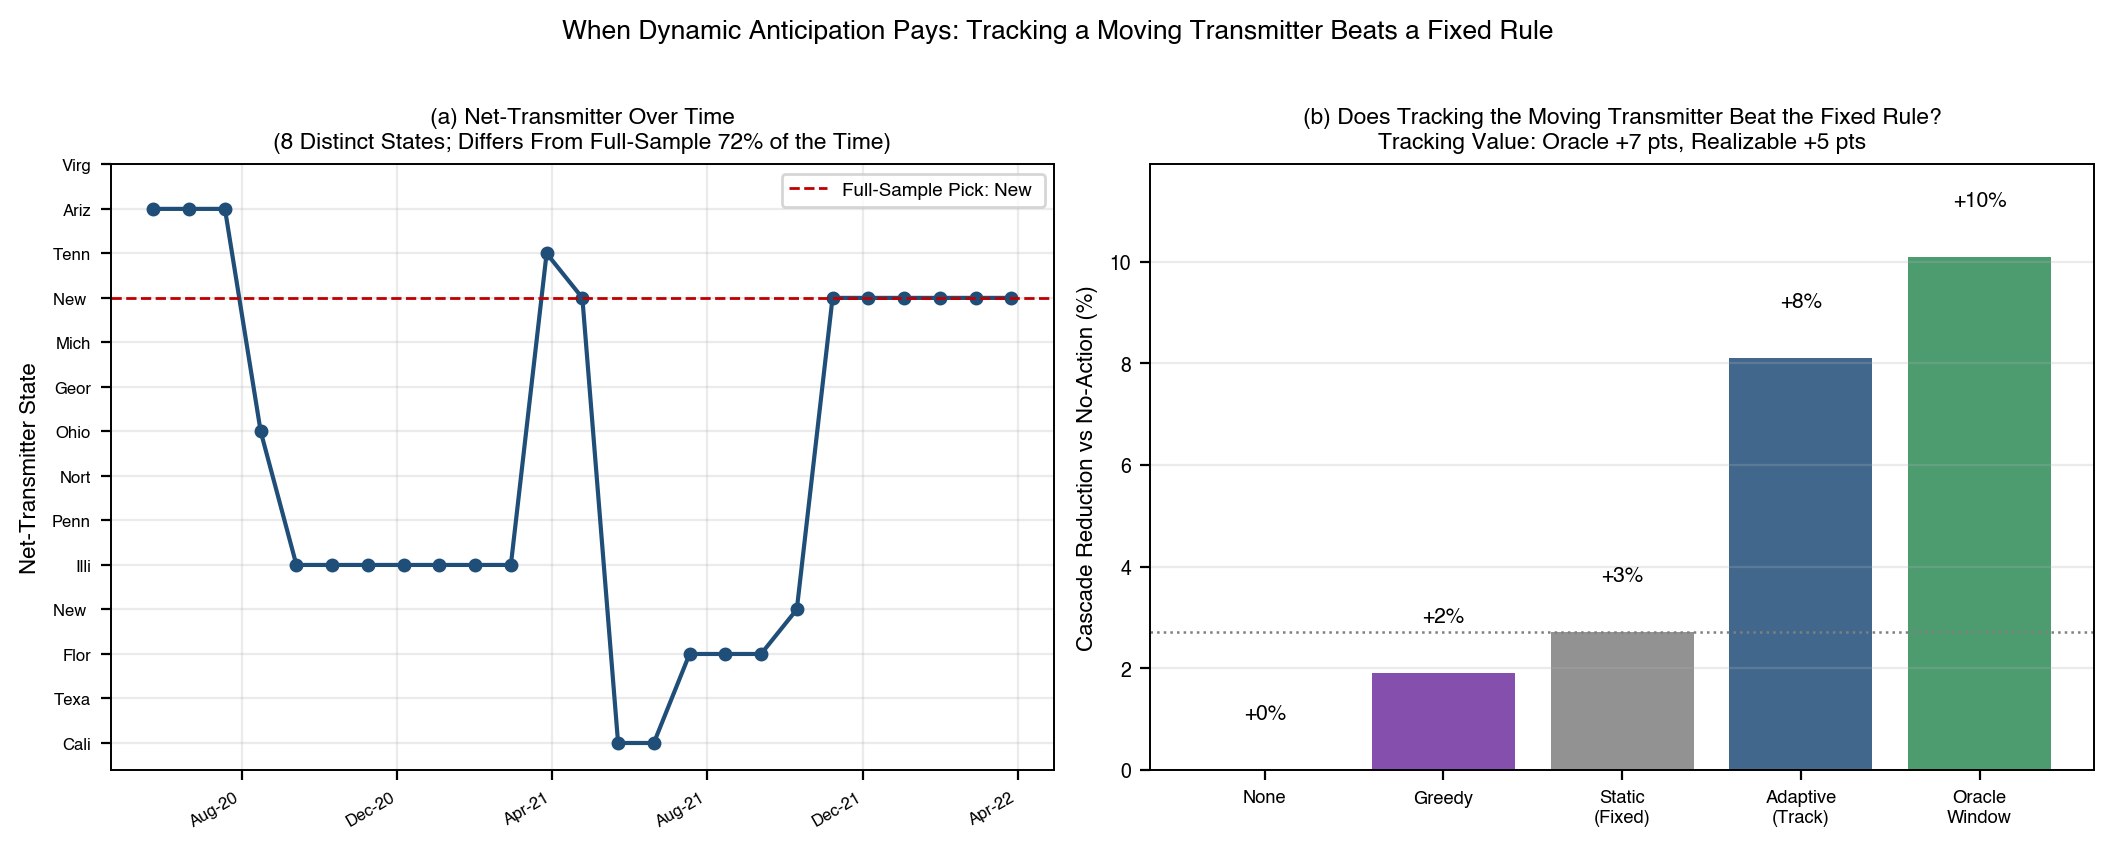
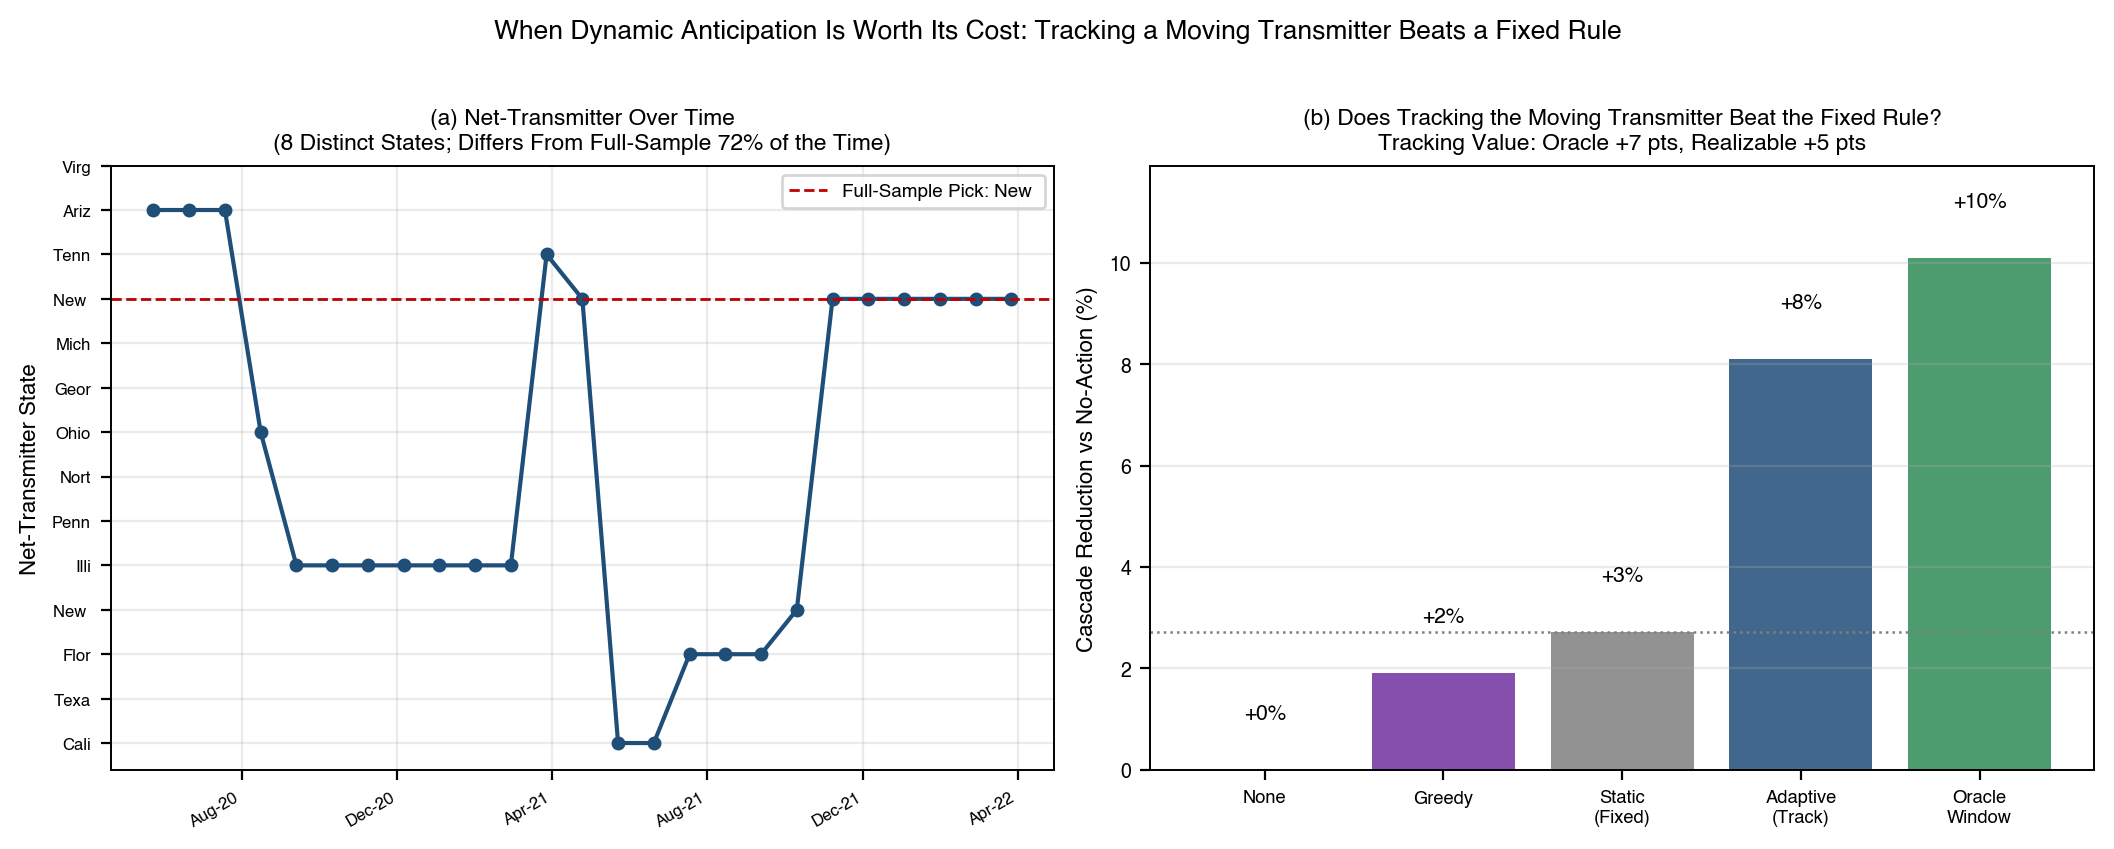
Reword Figure 6 title to remove idiom
'When dynamic anticipation pays' -> 'When dynamic anticipation is worth its cost'
(matches the manuscript's de-idiomed caption/heading; figure data unchanged).

diff --git a/pilot_review/nonstationary_gate.py b/pilot_review/nonstationary_gate.py
@@ -147,7 +147,7 @@ a.set_xticks(range(len(CT))); a.set_xticklabels(["None", "Greedy", "Static\n(Fix
 a.set_ylabel("Cascade Reduction vs No-Action (%)")
 a.set_title(f"(b) Does Tracking the Moving Transmitter Beat the Fixed Rule?\nTracking Value: Oracle {value_of_tracking:+.0f} pts, Realizable {realizable:+.0f} pts", fontsize=8.2)
 a.grid(alpha=.25, axis="y"); a.set_ylim(0, max(vv) * 1.18)
-fig.suptitle("When Dynamic Anticipation Pays: Tracking a Moving Transmitter Beats a Fixed Rule",
+fig.suptitle("When Dynamic Anticipation Is Worth Its Cost: Tracking a Moving Transmitter Beats a Fixed Rule",
              fontsize=9.5, fontweight="bold", y=1.02)
 fig.tight_layout()
 fig.savefig(BASE / "nonstationary_gate.pdf", bbox_inches="tight"); fig.savefig(BASE / "nonstationary_gate.png", dpi=200, bbox_inches="tight")